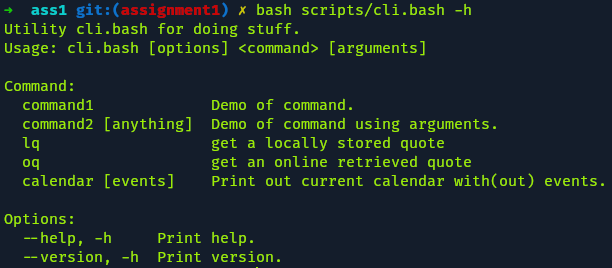
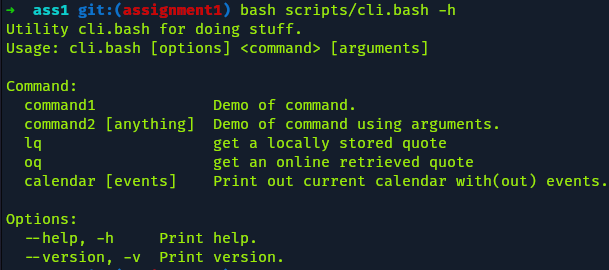
added reflection in last task (question 1 extention of cli.bash); answered question on how to learn linux; completed shellcheck and TIL section of report; removed themplate parts

diff --git a/ass1/Report.md b/ass1/Report.md
@@ -500,16 +500,39 @@ I wasn't sure if this was part of the task but I changed it anyway, assuming it 
 
 ### Questions
 #### **Question 1:** Reflect on the cli code and compare it to other programming languages you have learnt. Talk about the similarity/differences and what is good/bad.
-// TODO
+Compared to other languages, CLI code is quite hard to get used to. While other programming languages, like python, have simple syntax, CLI code has some cryptic syntax (e.g. double ";" or "(( ))"). However, there are similarities to languages like python and java. CLI code still has familiar code like `while`, `case`, and `if`/`else`, but in CLI code they need additional syntax like `while .. do .. done` or `case .. in .. esax`, which is not easy to get used to.\
+Just like java, CLI code uses brackets for the conditions of if-statements, just a different type of brackets and some additional syntax.
+
+What's good about CLI code is that you can write automated scripts to do things in one go and more convenient. You basically have quick access to a large number of tools/ commands with just a few commands needed to use them. You also don't have to compile anything like in e.g. cmake or java.\
+The downsides are that you can destroy your system if you don't know what you are doing and for e.e.g operate as sudo user. However, developers knew that users can make mistakes and some UNIX systems implemented some command outputs that warn you before executing e.g. `rm -rf *`. There, the terminal will ask you if you for e.g. are sure that you want to proceed with your action.\
+The syntax is also not easy to get used to sometimes, especially with all the large documentation that might be a little overwhelming for beginners.\
+Personally, I think it's good for small tasks but can be really hard to maintain and debug for larger projects.
 
 ### Sourcecode
 [cli.bash](./scripts/cli.bash)
 
 
 ## How to learn Linux
-#### **Question:** Lets say you have a friend that wants to learn Unix and the shell. What would be your suggestion to your friend on the five most important steps to start learning?
-//TODO
-
+### **Question:** Lets say you have a friend that wants to learn Unix and the shell. What would be your suggestion to your friend on the five most important steps to start learning?
+#### 1. The right Guidance
+Do not watch these 12 hour tutorials or how others have their first experience. Most of these videos are really boring and you learn nothing and just end up getting frustrated because the people in the videos appear to be so much faster and display it much easier because they mostly cut out all the trial and error or have prior experience, they don't mention.\
+Instead, focus on actual experience that you make yourself. Talk to real people that have knowledge and don't make everything sound so complicated. Talking to actual people and letting them explain things in simpler terms is much more useful than trying to understand all these guides that contain mostly academic and complex terminology or even assume you have prior knowledge. There are guides that are simple but they are hard to find. Therefore, I suggest finding the right group of people to help is always good.\
+BUT it is also important that you find your own style of solving things at some point. It is okay when you let others help you get going and understand the foundamentals, but at some point you need to learn to do things on your own AND in your own way.
+#### 2. Motivation/ Why?
+Nothing really sticks if you don't have a motivation to do so or if the reason is just "I saw it on social media and i want to appear cool.". That's not really a valid reason that will keep you motivated for long. Trends die fast and then you end up moving on aswell. The motivation needs to be a little more personal then that, so it keeps you hooked. Remind yourself of this reason or these reasons every time, you planned a study session.
+#### 3. Baby Steps and Burnout
+Don't do everything at once or you'll end up getting overwhelmed and burned out. It is also crusial to not compare yourself to others. Some might learn everything in a day while others take a week or even more, and that's okay. If you need more time and aren't under time pressure because of an exam related to this topic, you have all the time in the world to do it in your own pace. "Never half-ass two things, whole-ass one thing."-Ron Swanson [Parks and Recreation](https://www.youtube.com/watch?v=k6hZ9KdG1QU).\
+Set small goals that are so easy to do that it almost feels illegal. This way, you don't feel overwhelmed and don't try to procrastinate to avoid the task. If the task is simple and small to do, it may be a little easier to get started.\
+However, planning these tasks might be harder, as when you start out, you might not understand the level of difficulty of each task. That's why you need the right guidance (see step 1).
+#### 4. Don't use Windows
+Personally, I think it's so inconvenient to have to install extra tools etc. just to have a terminal that still doesn't give you full freedom. The best way to learn UNIX and understand shell scripting is to actually not use windows, but installing a linux distribution.\
+If you are unsure, you can always dual-boot windows and linux. It might seem overwhelming but it is actually not that scary or hard. My first dual-boot for e.g. was successful even without prior knowledge.\
+There are many distributions and finding the right one is not an easy task but you can always dual boot and have multiple systems. Just start out with one distro and stay on it until you feel ready and more adventorous.\
+For e.g. if you want to still do active gaming on your system, Cachy OS might be a good distro to choose. If you are completely new, are unsure of what to pick and want to start with something more familiar, Mint with Cinnamon is a good choice, as it looks similar to windows and still gives you the option to not use the terminal for everything, in case you are unsure of certain things.\
+I would suggest to visit [url](https://www.heise.de/ratgeber/Der-c-t-Linux-Netzplan-So-finden-Sie-die-passende-Distribution-6330180.html) to get a good overview of some of the distros and what they entail. The website even provides sort of a train map to better visualize what the different distros have and don't have.
+#### 5. Have fun
+You should of course try to stay committed and serious about this, but also understand that this is not work, not something you HAVE to do (life or death situation). Understand that this is your decision and you can explore in your own way and make the system your own personal environment. You aren't restricted by any means. UNIX lets you explore many things in your own way and lets you change things that other systems don't want you to change.\
+This is your chance to have more freedom to explore.
 
 ## ShellCheck
 I first used the web version of it.
@@ -520,21 +543,32 @@ Since, those encounters on the website were quite strange, I decided to just ins
 
 in the terminal and adding an extention for it to VS Code. I tried to recreate the same issues as mentioned in the last paragraph, and it was much more consistent with its' complaints.
 
+In the [last task](#extend-existing-example-script) I actually encountered a problem with shellcheck claiming that the provided functions from the template weren't invoked. Shellcheck technically understood that they might be used somewhere indirectly but still kept complaining. Therefore, I decided to ignore/ suppress this warning. This was the only warning I ignored because all functions were used, just that shellcheck doesn't always understand where or how and you can't just tell it that it is actually used.\
+I wanted to ignore the warnings but since the blue marks were distracting, I suppressed them like this:\
+![](./images/shellcheck/shellcheck_suppress.png)\
+I used these only in the functions of the script [cli.bash](./scripts/cli.bash). In case you want to remove them, they are in lines 105, 120, 137, 152, and 167 of [cli.bash](./scripts/cli.bash).\
+This was the only case I encountered, where I ignored the warning.
 
 ## TIL _(Today I Learned...)_
-// TODO\
-I hate IEEE referencing and would have had much more fun, exploring the different ways of writing linux commands and scripts without having to refernce and document everything that I use to look up things.
+Bash scripting is fun, if you don't have stress because of many deadlines (work, other courses etc.).\
+I also leanred a lot about my terminal that I customized but forgot how. Writing it down was nice, since I can now look at this report in case I forget again.\
+I learned a lot about bash scripting and the varieties and similarities to other languages and how to use the terminal more. The terminal has a lot of things to offer and I also lerned how to read guides a bit better. I also found this interesting tool (`tldr`), which is so much more convenient than `man`, when you don't have a lot of time to read everything.
 
+Getting started was quite time consuming, and the first scripts took quite some time and were a little bit hard. Learning the syntax differences and some new commands, was a little demanding. Especially realizing a mistake and then having to rework the report aswell, was quite tedious.\
+Writing the scripts and then the report was not an option for me, because I wanted to document my thoughts alongside writing the script or at least right after finishing a script, since it helps me understand, what I wrote, better, and organize my thoughts, or even finding mistakes in the code, when explaining it in the report.
+
+I am personally quite proud of the little extention I wrote in [cli.bash](./scripts/cli.bash) and how I implemented [large_files.bash](./scripts/large_files.bash).\
+While [large_files.bash](./scripts/large_files.bash) is not the most efficient code, it is something I made myself.\
+[cli.bash](./scripts/cli.bash) was so short and easy to solve, once I understood the given script and task. I personally think, that my solution is quite elegant.\
+Personally, all scripts are not bad. I am suprised that I even made it this far, considering that I don't have that much knowledge about bash scripting. But I also realized that I don't have no knowledge. Exchanging ideas with other students and then using the gained knowledge in the report has truly strengthen my understanding.\
+Although, I might never fully get used to the syntax, since there are so many commands, I still learned a lot. For example I now understand more, how `tldr` works, how to use`if`/`else`-statements, `for`-loops, creating files, printing things in the files or in the terminal and how to remove not needed printouts or in particular, what `>/dev/null` means.
+
+What I absolutely don't appreciate was IEEE referencing. Personally, writing the report, was quite enjoyable and will help me later when I need to come back to in someday, but I would have had much more fun, exploring the different ways of writing linux commands and scripts without having to refernce everything that I use to look up things. I always felt the need to justify where I found certain things. Referencing is okay, but I have a personal problem with this type of referencing.
+
+What I did appreciate, were the questions that required personal experiences and possible knowledge from those experiences. It was also nice to use more cognitive skills like critical thinking to understand and see things from different perspectives.\
+The assignment gave a lot of freedom when it came to the answering of the questions which was quite nice.
 
 # References
-Template REMOVE LATER[
-
-    [#] A. A. Author, “Title of page,” Website Name. [Online]. Available: URL. [Accessed: Day-Month-Year].
-
-    [#] Author (if any), “Title,” Website Name, Month Day, Year. [Online]. Available: URL [Accessed: Day-Month-Year].
-]
-
-
 [1] Sagar Sharma, "Find a Directory in Linux", "Linux Handbook", Jul 22, 2023. [Online]. Available: https://linuxhandbook.com/find-directory/ [Accessed: 23-Jan-2026]
 
 [2] Lubos Rendek, "Try-Catch in Bash: Bash Script Error Handling", "LinuxConfig", Sep 21, 2025. [Online]. Available: https://linuxconfig.org/bash-script-error-handling-try-catch-in-bash [Accessed: 23-Jan-2026]
@@ -581,15 +615,13 @@ Template REMOVE LATER[
 
 [23] Packetlabs, "How Attackers Weaponize ANSI Escape Sequences", "Packetlabs", May 26, 2025. [Online]. Available: https://www.packetlabs.net/posts/weaponizing-ansi-escape-sequences/ [Accessed 10-Feb-2026]
 
-[23] GeeksforGeeks, "Bash Scripting - Array", "GeeksforGeeks", Apr 13, 2022. [Online]. Available: [url](https://www.geeksforgeeks.org/linux-unix/bash-scripting-array/) [Accessed 11-02-2026]
+[23] GeeksforGeeks, "Bash Scripting - Array", "GeeksforGeeks", Apr 13, 2022. [Online]. Available: https://www.geeksforgeeks.org/linux-unix/bash-scripting-array/ [Accessed 11-02-2026]
 
-[24] Noah Cammann, "Dumme Sprüche", "1001SPRÜCHE", Apr 11, 2023. [Online]. Available: [url](https://1001sprueche.com/dumme-sprueche) [Accessed 11-02-2026]
+[24] Noah Cammann, "Dumme Sprüche", "1001SPRÜCHE", Apr 11, 2023. [Online]. Available: https://1001sprueche.com/dumme-sprueche [Accessed 11-02-2026]
 
-[25] Navendu Pottekkat, "An Interactive Guide to Transforming JSON with jq", "navendu.me", Nov 22, 2024. [Online]. Available: [url](https://navendu.me/posts/jq-interactive-guide/) [Accessed 11-02-2026]
+[25] Navendu Pottekkat, "An Interactive Guide to Transforming JSON with jq", "navendu.me", Nov 22, 2024. [Online]. Available: https://navendu.me/posts/jq-interactive-guide/ [Accessed 11-02-2026]
 
-[26] Subham Kumar Sinha, "Quotes API Documentation", "motivational-spark-api", 2025. [Online]. Available: [url](https://motivational-spark-api.vercel.app/api/) [Accessed 11-02-2026]
-
-[x] Author, "title", "websitename", date, year. [Online]. Available: url [Accessed dd-mm-yyyy]
+[26] Subham Kumar Sinha, "Quotes API Documentation", "motivational-spark-api", 2025. [Online]. Available: https://motivational-spark-api.vercel.app/api/ [Accessed 11-02-2026]
 
 # Other useful links
 ## Linux-related
